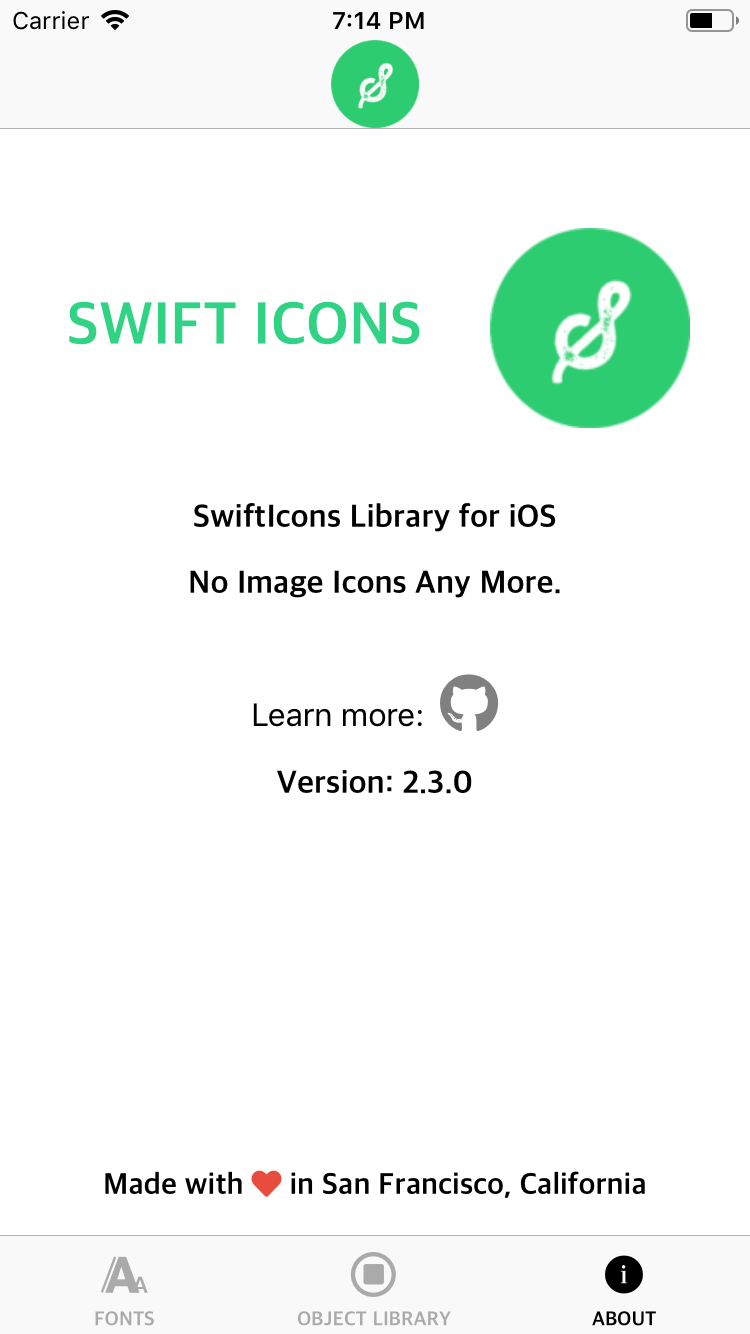
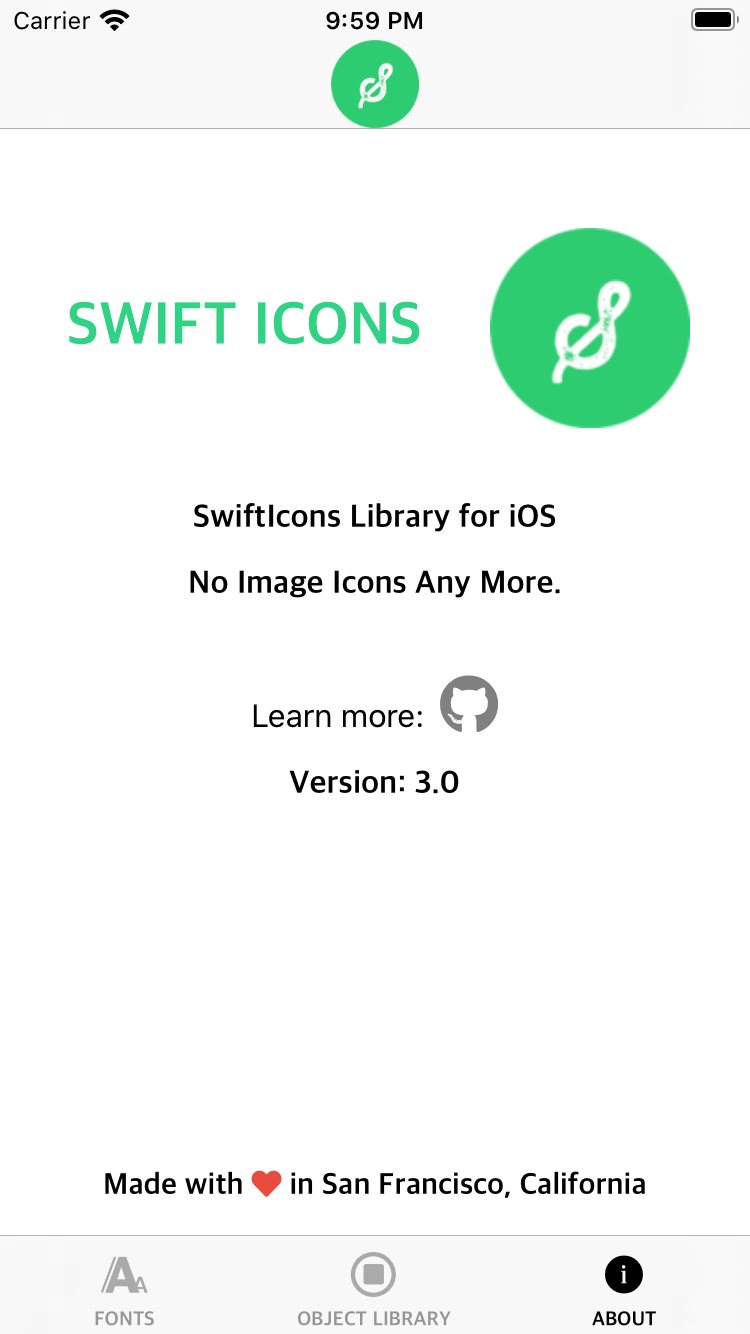
Release 3.0

diff --git a/SwiftIconsApp/Extensions.swift b/SwiftIconsApp/Extensions.swift
@@ -33,8 +33,8 @@ public extension UIColor {
         if ((cString.count) != 6) {
             cString = "808080"
         }
-        var rgbValue: UInt32 = 0
-        Scanner(string: cString).scanHexInt32(&rgbValue)
+        var rgbValue: UInt64 = 0
+        Scanner(string: cString).scanHexInt64(&rgbValue)
 
         self.init(red: CGFloat((rgbValue & 0xFF0000) >> 16) / 255.0,
                   green: CGFloat((rgbValue & 0x00FF00) >> 8) / 255.0,

diff --git a/README.md b/README.md
@@ -2,7 +2,7 @@
 
 [![BuyMeACoffee](https://img.shields.io/badge/buy%20me%20a%20coffee-%E2%98%95%EF%B8%8F-917A01.svg)](https://www.buymeacoffee.com/saurabhrrane)
 
-[![CocoaPods](https://img.shields.io/cocoapods/v/SwiftIcons.svg)](https://cocoapods.org/pods/SwiftIcons) [![Platform](https://img.shields.io/cocoapods/p/SwiftIcons.svg)](http://cocoadocs.org/docsets/SwiftIcons) ![Swift](https://img.shields.io/badge/%20in-swift%204.2-orange.svg) [![Carthage compatible](https://img.shields.io/badge/Carthage-compatible-4BC51D.svg?style=flat)](https://github.com/Carthage/Carthage)
+[![CocoaPods](https://img.shields.io/cocoapods/v/SwiftIcons.svg)](https://cocoapods.org/pods/SwiftIcons) [![Platform](https://img.shields.io/cocoapods/p/SwiftIcons.svg)](http://cocoadocs.org/docsets/SwiftIcons) ![Swift](https://img.shields.io/badge/%20in-swift%205.0-orange.svg) [![Carthage compatible](https://img.shields.io/badge/Carthage-compatible-4BC51D.svg?style=flat)](https://github.com/Carthage/Carthage)
 
 [![Travis](https://img.shields.io/travis/ranesr/SwiftIcons.svg)](https://travis-ci.org/ranesr/SwiftIcons/) [![License](https://img.shields.io/cocoapods/l/SwiftIcons.svg?style=flat)](http://cocoapods.org/pods/SwiftIcons)
 
@@ -71,7 +71,7 @@ Add the following lines to your `Podfile`:
 ```ruby
 target 'YourProject' do
     use_frameworks!
-    pod 'SwiftIcons', '~> 2.3.2'
+    pod 'SwiftIcons', '~> 3.0'
 end
 ```
 
@@ -96,7 +96,7 @@ Install the latest version of [Carthage](https://github.com/Carthage/Carthage#in
 Add this line to your `Cartfile`:
 
 ```
-github "ranesr/SwiftIcons" ~> 2.3.2
+github "ranesr/SwiftIcons" ~> 3.0
 ```
 
 or for `master`,

diff --git a/CHANGELOG.md b/CHANGELOG.md
@@ -5,6 +5,12 @@ The format is based on [Keep a Changelog](http://keepachangelog.com/) and this p
 
 ## [Unreleased]
 
+## [3.0] - 2020-04-04
+
+### Changed
+
+- Updated to Swift 5.0 and Xcode 10.2 [#57]
+
 ## [2.3.2] - 2018-12-16
 
 ### Changed
@@ -117,7 +123,8 @@ The format is based on [Keep a Changelog](http://keepachangelog.com/) and this p
 - Initial Version of SwiftIcons
 - Support for Cocoapods
 
-[Unreleased]: https://github.com/ranesr/SwiftIcons/compare/2.3.2...master
+[Unreleased]: https://github.com/ranesr/SwiftIcons/compare/3.0...master
+[3.0]: https://github.com/ranesr/SwiftIcons/compare/2.3.2...3.0
 [2.3.2]: https://github.com/ranesr/SwiftIcons/compare/2.3.1...2.3.2
 [2.3.1]: https://github.com/ranesr/SwiftIcons/compare/2.3.0...2.3.1
 [2.3.0]: https://github.com/ranesr/SwiftIcons/compare/2.2.0...2.3.0
@@ -144,3 +151,4 @@ The format is based on [Keep a Changelog](http://keepachangelog.com/) and this p
 [#35]: https://github.com/ranesr/SwiftIcons/issues/35
 [#41]: https://github.com/ranesr/SwiftIcons/pull/41
 [#48]: https://github.com/ranesr/SwiftIcons/pull/48
+[#57]: https://github.com/ranesr/SwiftIcons/pull/57
